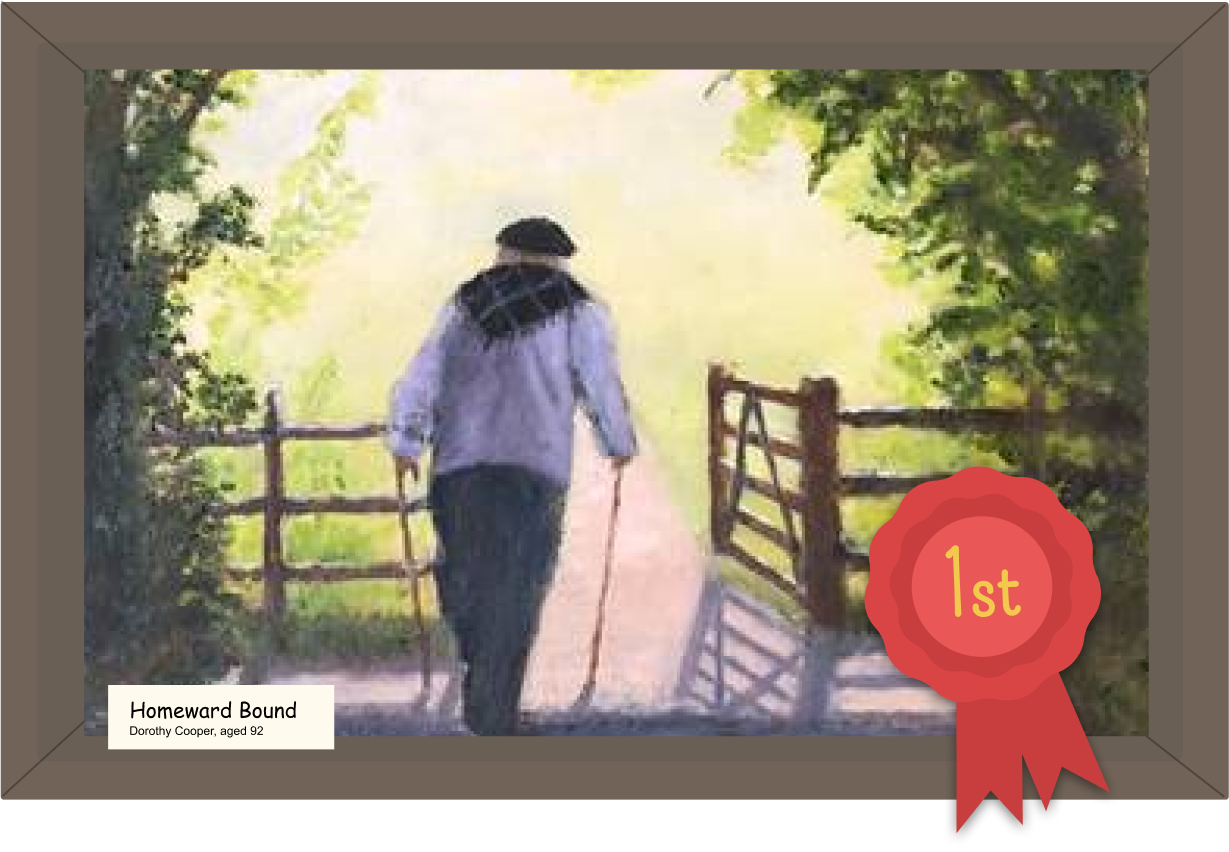
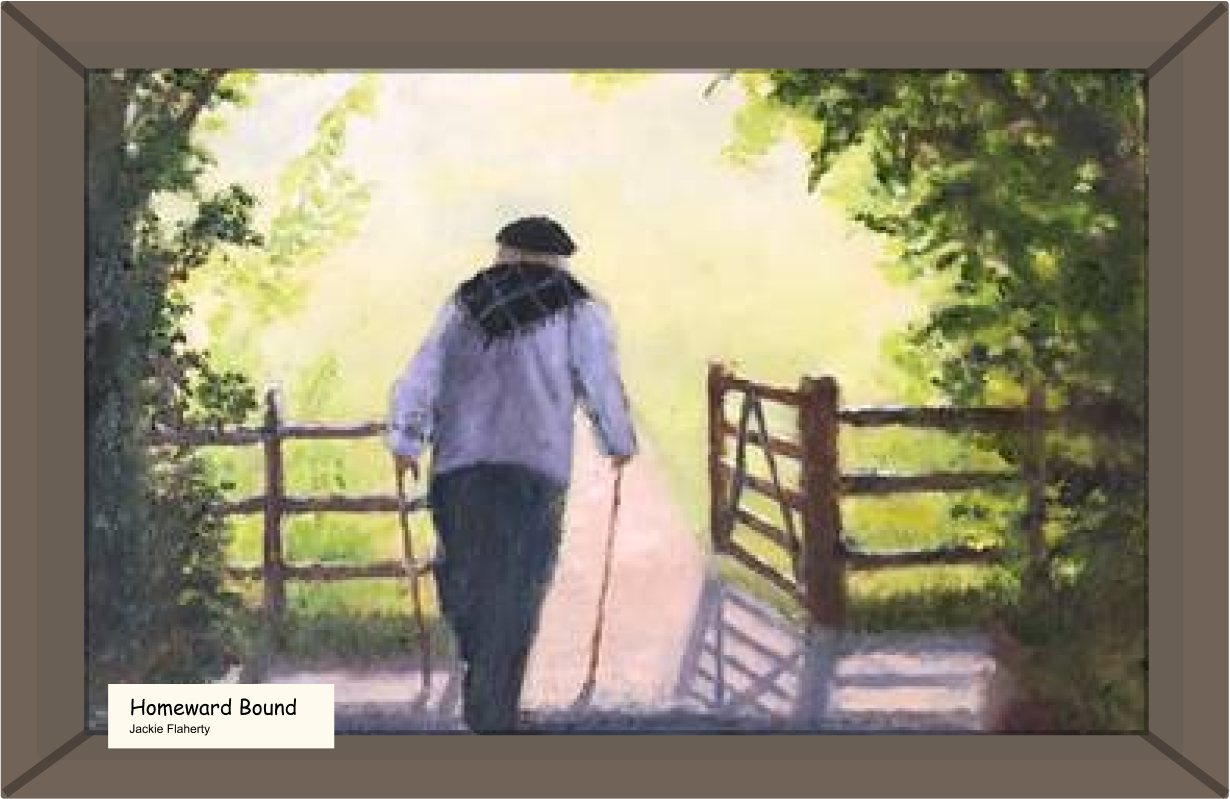
Remove 1st prize ribbon

diff --git a/index.css b/index.css
@@ -382,8 +382,8 @@ h4 > a {
 #painting {
   margin-left: auto;
   margin-right: auto;
-  margin-bottom: -3rem;
-  max-width: 40rem;
+  margin-bottom: -2rem;
+  max-width: 32rem;
   z-index: 2;
   position: relative;
 }
